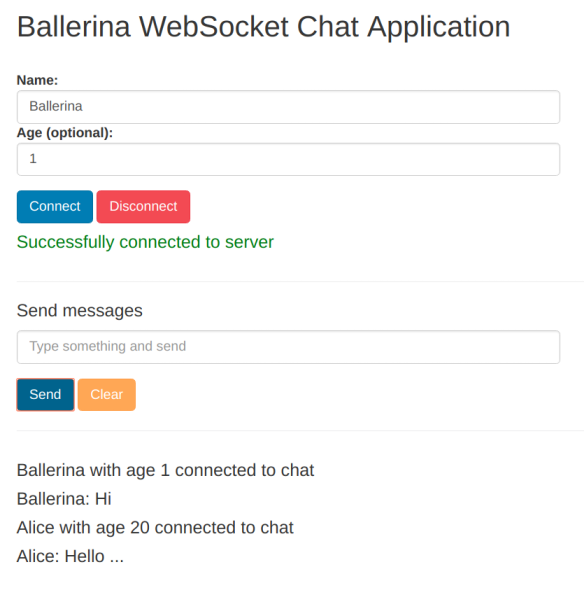
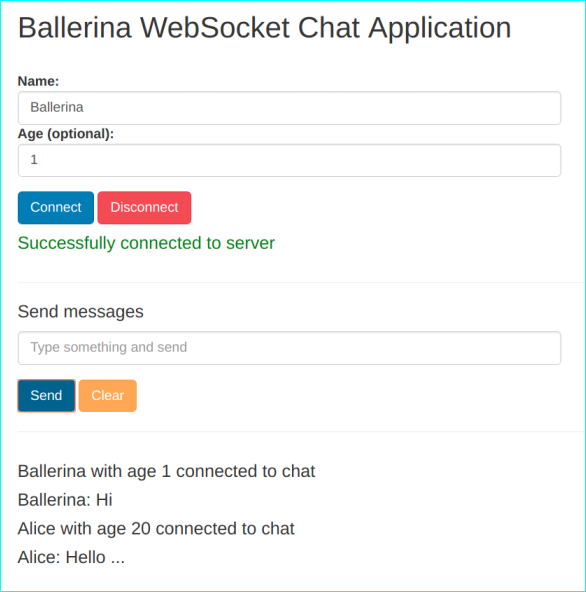
update sample

diff --git a/chat_web_client/index.html b/chat_web_client/index.html
@@ -31,7 +31,7 @@ If you are using a secured connection change ws -> wss.
 </head>
 
 <body class="container">
-<h1 class="text-center">Ballerina WebSocket Chat Application</h1>
+<h2 >Ballerina WebSocket Chat Application</h2>
 <br>
 <div class="row">
     <div class="col-md-6">
@@ -70,7 +70,7 @@ If you are using a secured connection change ws -> wss.
 JavaScript code related to web socket connection management
 -->
 <script>
-        // Define the WebSocket URL (default URL for Ballerina chat app sample)
+        // Define the WebSocket URL (default one for Ballerina chat app sample
         var url = "ws://localhost:9090/chat/";
 
         // Initialize the WebSocketConnector

diff --git a/README.md b/README.md
@@ -1,13 +1,15 @@
 # Using WebSockets to develop an interactive web application
-[WebSocket](https://tools.ietf.org/html/rfc6455) is a computer communications protocol that allows you to open an interactive communication session between the user's browser and a server. With WebSockets, you can send messages to a server and receive responses based on events without having to query the server for a response.
+[WebSocket](https://tools.ietf.org/html/rfc6455) is a computer communications protocol that allows you to open an interactive communication session between the user's browser and a server. With WebSockets, you can send messages to a server and receive responses based on events without having to query the server for a response. Ballerina language has build-in support for creating services with WebSockets.
 
 ## <a name="what-you-build"></a>  What you'll build
-You'll build a chat application using WebSockets. We will develop the chat application server completely using Ballerina and we'll use JavaScript and HTML to implement browser client for the chat application.
+You'll build a chat application using WebSockets. We will develop the chat application server completely using Ballerina language. The Ballerina WebSocket Chat application will have four resorces to handel WebSocket connections. Refer to the following diagram to understand how we are going to implement the chat application.
 
 &nbsp;
-![alt text](https://github.com/rosensilva/ballerina-samples/blob/master/web-socket-sample/images/chat_application_ui.png)
+![WebSocket Scenario](https://github.com/rosensilva/ballerina-samples/blob/master/web-socket-sample/images/websokcet_scenario.png)
 &nbsp; 
 
+  
+NOTE:  We'll use JavaScript and HTML to implement browser client for the chat application. But this guide will only explains the JavaScript implementation of the web client.
 ## <a name="pre-req"></a> Prerequisites
  
 * JDK 1.8 or later
@@ -34,12 +36,14 @@ The project structure should look similar to the following,
     │   └── js
     │       └── bootstrap.min.js
     └── index.html
+
 ```
-The `chatserver` is the package for the chat application server side implementation. The `chat_web_client` is the web client to access the chat application. This guide will elaborate more on the server-side implementation of chat application using WebSockets. 
+The `chatserver` is the package for the chat application server side implementation.  
+The `chat_web_client` is the web client for the chat application. This guide will elaborate more on the server-side implementation of chat application using WebSockets. 
 
 ### Implementation of the chat application using WebSockets
 
-First, you need to import the WebSocket package using the `import ballerina.net.ws` statement. Then, you can define a WebSocket web service as `service<ws> ChatApp `. You may also need to add additional WebSocket configurations using `@ws:configuration` annotation. In the chat application we'll give `basePath` as `"/chat/{name}"` and `port` as `9090`. 
+First, you need to import the WebSocket package using the `import ballerina.net.ws;` command. Then, you can define a WebSocket web service as `service<ws> ChatApp `. You may also need to add additional WebSocket configurations using `@ws:configuration` annotation. In the chat application we'll give `basePath` as `"/chat/{name}"` and `port` as `9090`. 
 Next, we need to add resources to handle each of the following events
 * Opening a new WebSocket
 * Closing an existing WebSockets
@@ -52,6 +56,7 @@ Inside each resource, we can implement the logic as per the requirement. In this
 package chatserver;
 
 import ballerina.io;
+import ballerina.log;
 import ballerina.net.ws;
 
 
@@ -63,6 +68,11 @@ service<ws> ChatApp {
     // In-memory map to store web socket connections
     map consMap = {};
 
+    //This resource will trigger when a new connection handshake
+    resource onHandshake(ws:HandshakeConnection conn) {
+        log:printInfo("New client is going to connect with ID: "+ conn.connectionID);
+    }
+    
     // This resource will trigger when a new web socket connection is open
     resource onOpen (ws:Connection conn, string name) {
         // Add the new connection to the connection map
@@ -115,11 +125,11 @@ With that, we have completed the implementation of the chat application web serv
 
 ### Implementation of the web client for the chat application
 
-You'll use the WebSocket API provided in JavaScript to write the web client for the chat application.
+You can use the WebSocket API provided in JavaScript to write the web client for the chat application.
   
 First, we will create a new WebSocket connection from JavaScript.
 ```javascript
-var ws = new WebSocket("ws://localhost:9090/chat/Alice");`.
+var ws = new WebSocket("ws://localhost:9090/proxy/ws");`.
 ```
 
 Next, we need to listen to the following events for the WebSocket connection.
@@ -171,18 +181,21 @@ ballerina: started HTTP/WS server connector 0.0.0.0:9090
 ```
 
 4. You can test the functionality using the chat application web client. Navigate to the sample base directory and find the `index.html` at `websocket-chat-app/chat_web_client/` location. Then open the index.html file from a web browser (e.g: Chrome, Firefox). 
-Then you will see the chat application user interface,
+Then you will see the following chat application user interface,  
+
+![Chat Application UI](https://github.com/rosensilva/ballerina-samples/blob/master/web-socket-sample/images/chat_application_ui.png)  
   
     **Connect as a new user**
-    You can add your name and age to the respective text input boxes. Then the client will connect to the chat application web   server using WebSockets.
-    ![alt_text](https://github.com/rosensilva/ballerina-samples/blob/master/web-socket-sample/images/chat_app_add_user_resized.png)
+    You can insert your name and age to the respective text input boxes. Then the client will connect to the chat application  once you press the `Connect` button.
     
     **Send chat messages**
-    You can send new messages to chat using the chat application client by typing the message in the provided text box and pressing send button.
-    ![alt_text](https://github.com/rosensilva/ballerina-samples/blob/master/web-socket-sample/images/chat_app_send_msg.png)
+    You can type new messages to the chat in the provided text box.  Then the client will send the message to the chat application once you press the `Send` button.
     
     **Recieve chat messages**
     You can see the new messages as they arrive in the chat application client user interface.
+    
+    **Exit from the chat**
+    You can exit from the chat application once you press the `Disconnect` button.
     
     **Join multiple clients to the chat server**
     You can login to chat application using multiple browsers or from the same browser. To test this, you can open multiple instances of `websocket-chat-app/chat_web_client/index.html` from your browser/s.
